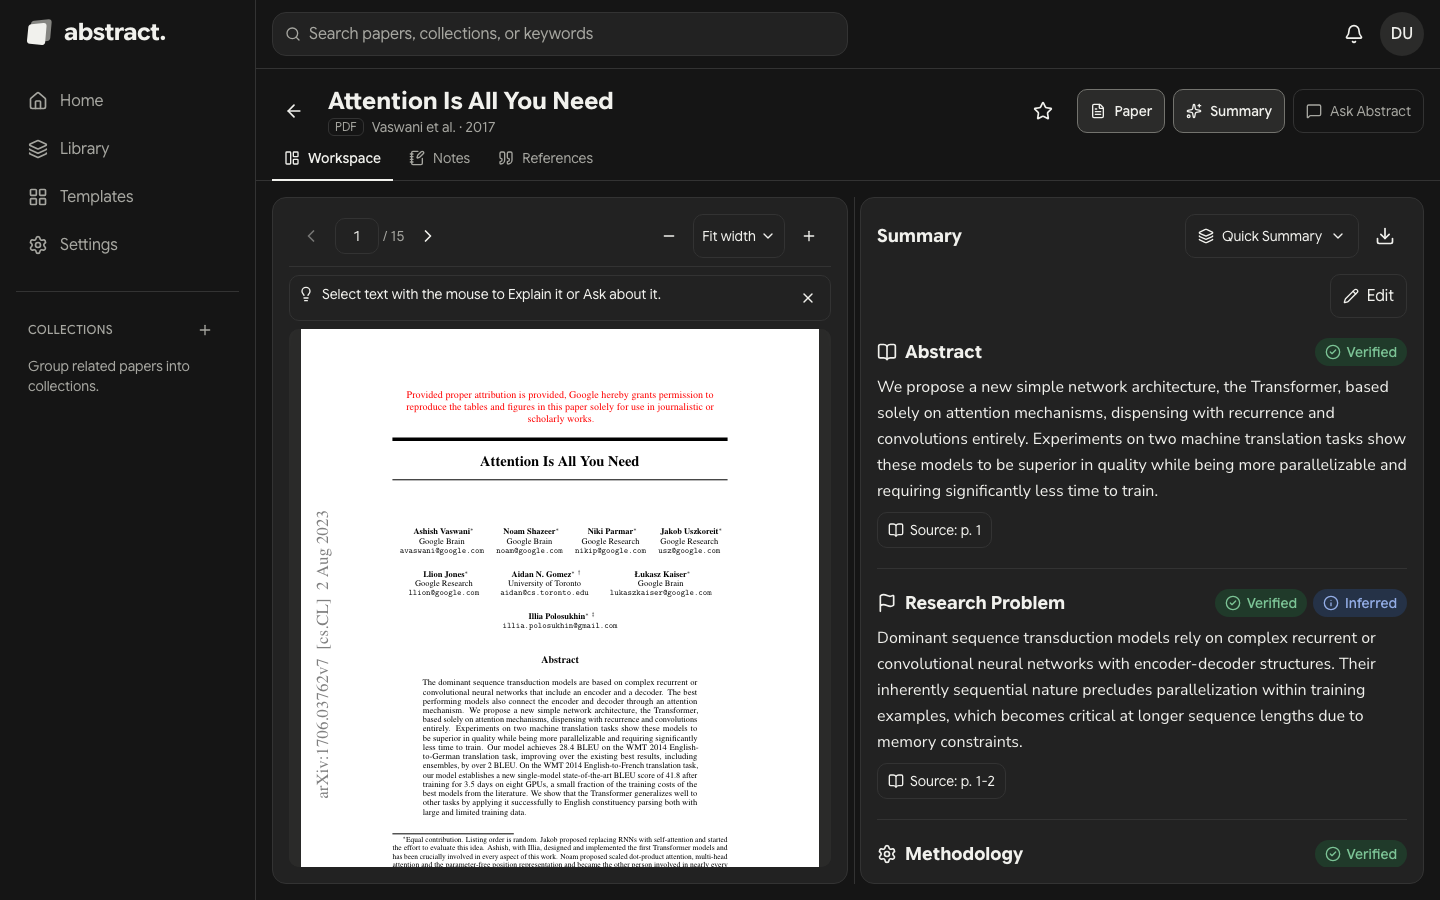
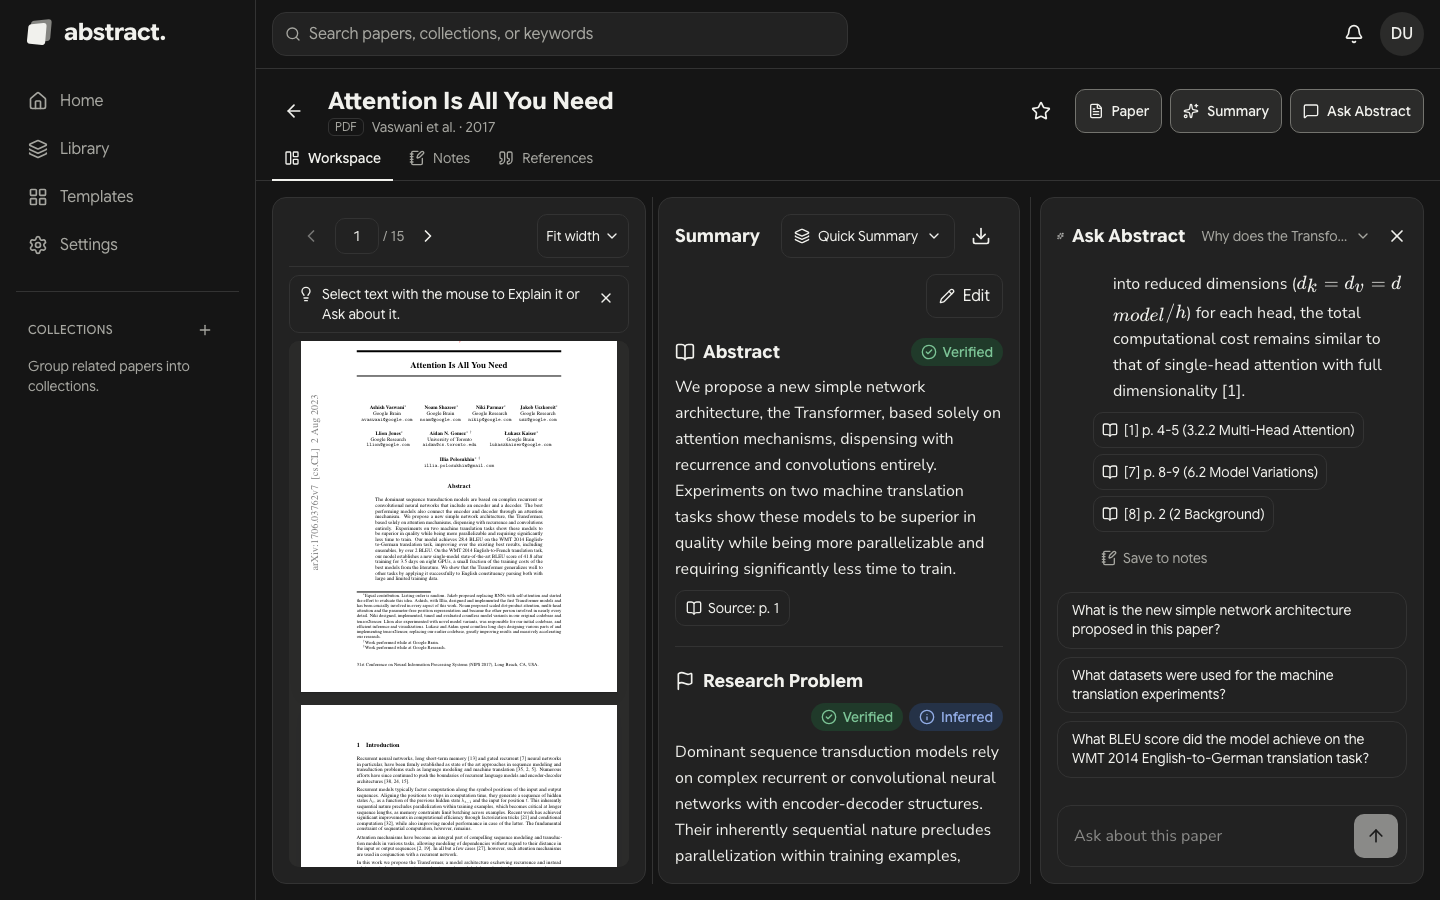
docs(readme): screenshot order, Home in light, Admin at the bottom
Home is always the light screenshot; the grid reads Sign-in and
Library, then figures and tables, then Templates and References, with
the Admin dashboard full width at the end. The workspace screenshots
start the PDF at the paper's title instead of the publisher's red
attribution notice above it.

diff --git a/README.md b/README.md
@@ -90,7 +90,7 @@ Screenshots follow your GitHub theme: switch GitHub to dark mode to see the app 
 
 **Home: drop a PDF to start**
 
-<picture><source media="(prefers-color-scheme: dark)" srcset="docs/images/home-dark.png"><img src="docs/images/home-light.png" alt="Home with the upload box and recently opened papers"></picture>
+<img src="docs/images/home-light.png" alt="Home with the upload box and recently opened papers">
 
 **Phone: Home, the summary, and a cited answer**
 
@@ -102,17 +102,23 @@ Screenshots follow your GitHub theme: switch GitHub to dark mode to see the app 
   <picture><source media="(prefers-color-scheme: dark)" srcset="docs/images/phone-chat-dark.png"><img src="docs/images/phone-chat-light.png" alt="A cited answer on a phone" width="250"></picture>
 </p>
 
+| Sign-in | Library |
+|---|---|
+| <picture><source media="(prefers-color-scheme: dark)" srcset="docs/images/sign-in-dark.png"><img src="docs/images/sign-in-light.png" alt="Sign-in with the liquid wordmark"></picture> | <picture><source media="(prefers-color-scheme: dark)" srcset="docs/images/library-dark.png"><img src="docs/images/library-light.png" alt="Library with processed papers"></picture> |
+
 <sub>Figures and tables are from a local run: the current production host has them switched off for memory (see [Known limits](#known-limits-and-next-steps)).</sub>
 
 | Figures, extracted with captions | Tables, extracted as real tables |
 |---|---|
 | <picture><source media="(prefers-color-scheme: dark)" srcset="docs/images/figures-dark.png"><img src="docs/images/figures-light.png" alt="Figures and tables view with the Transformer architecture figure"></picture> | <picture><source media="(prefers-color-scheme: dark)" srcset="docs/images/tables-dark.png"><img src="docs/images/tables-light.png" alt="Table 1 of the paper extracted as an HTML table"></picture> |
-| **Library** | **Sign-in** |
-| <picture><source media="(prefers-color-scheme: dark)" srcset="docs/images/library-dark.png"><img src="docs/images/library-light.png" alt="Library with processed papers"></picture> | <picture><source media="(prefers-color-scheme: dark)" srcset="docs/images/sign-in-dark.png"><img src="docs/images/sign-in-light.png" alt="Sign-in with the liquid wordmark"></picture> |
-| **Templates** | **Admin dashboard** |
-| <picture><source media="(prefers-color-scheme: dark)" srcset="docs/images/templates-dark.png"><img src="docs/images/templates-light.png" alt="Templates"></picture> | <img src="docs/images/admin.png" alt="Admin overview with usage charts"> |
 
-<p align="center"><img src="docs/images/references.png" alt="References matched on Semantic Scholar" width="80%"><br><sub>References from the paper, matched on Semantic Scholar</sub></p>
+| Templates | References, matched on Semantic Scholar |
+|---|---|
+| <picture><source media="(prefers-color-scheme: dark)" srcset="docs/images/templates-dark.png"><img src="docs/images/templates-light.png" alt="Templates"></picture> | <img src="docs/images/references.png" alt="References matched on Semantic Scholar"> |
+
+**Admin dashboard: usage, spend against the cap, jobs and plans**
+
+<img src="docs/images/admin.png" alt="Admin overview with usage charts" width="100%">
 
 ---
 
